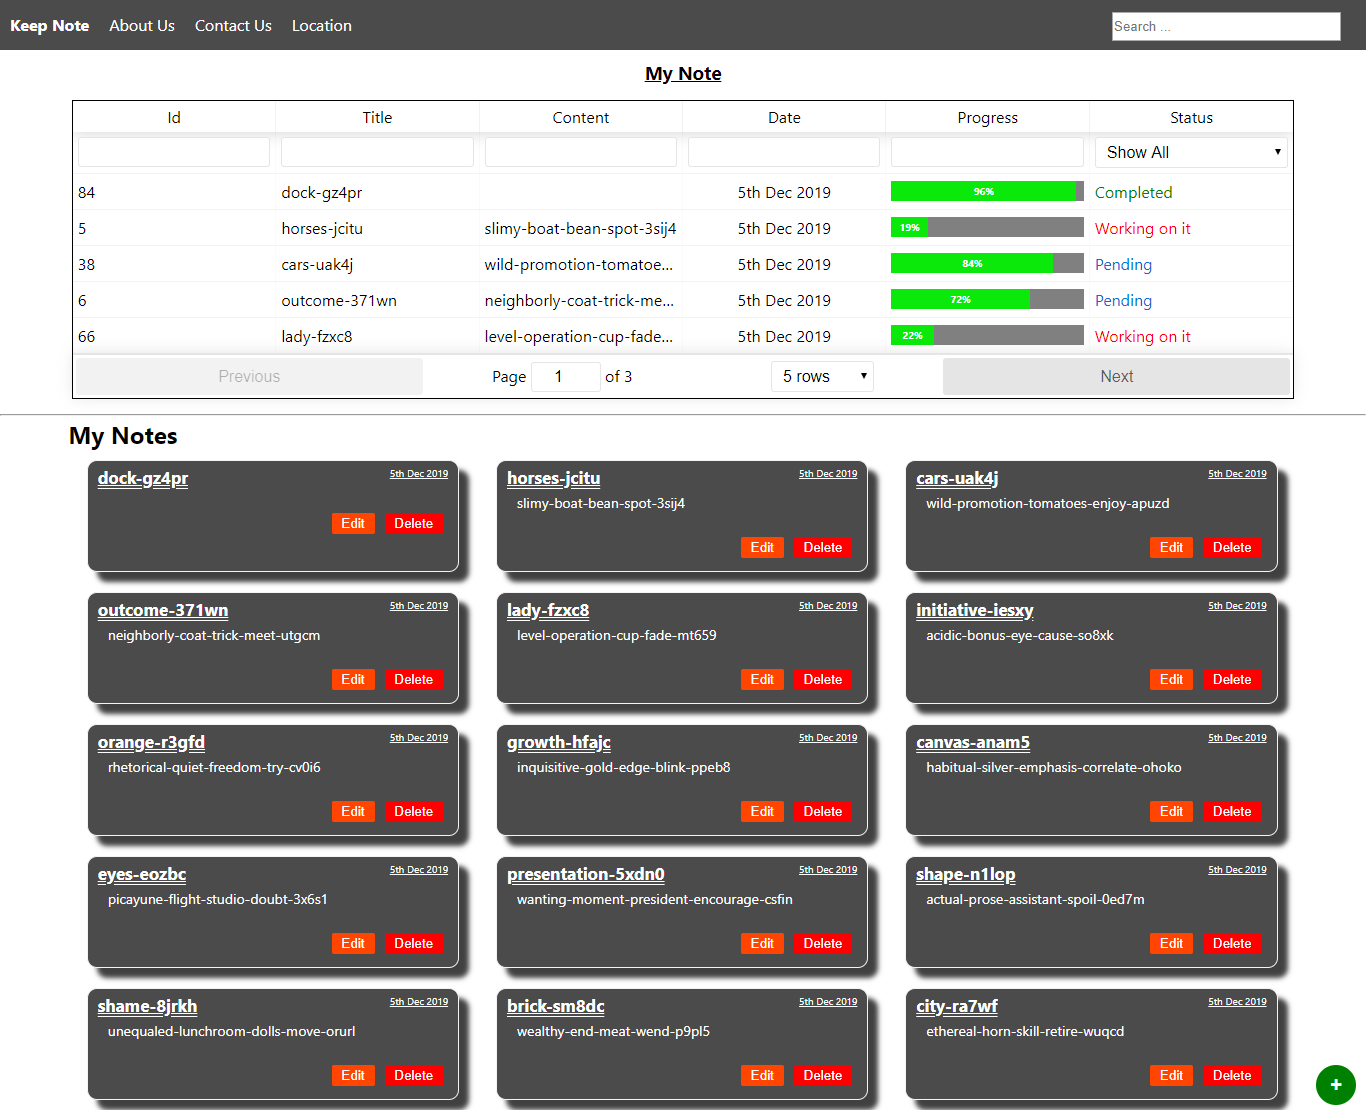
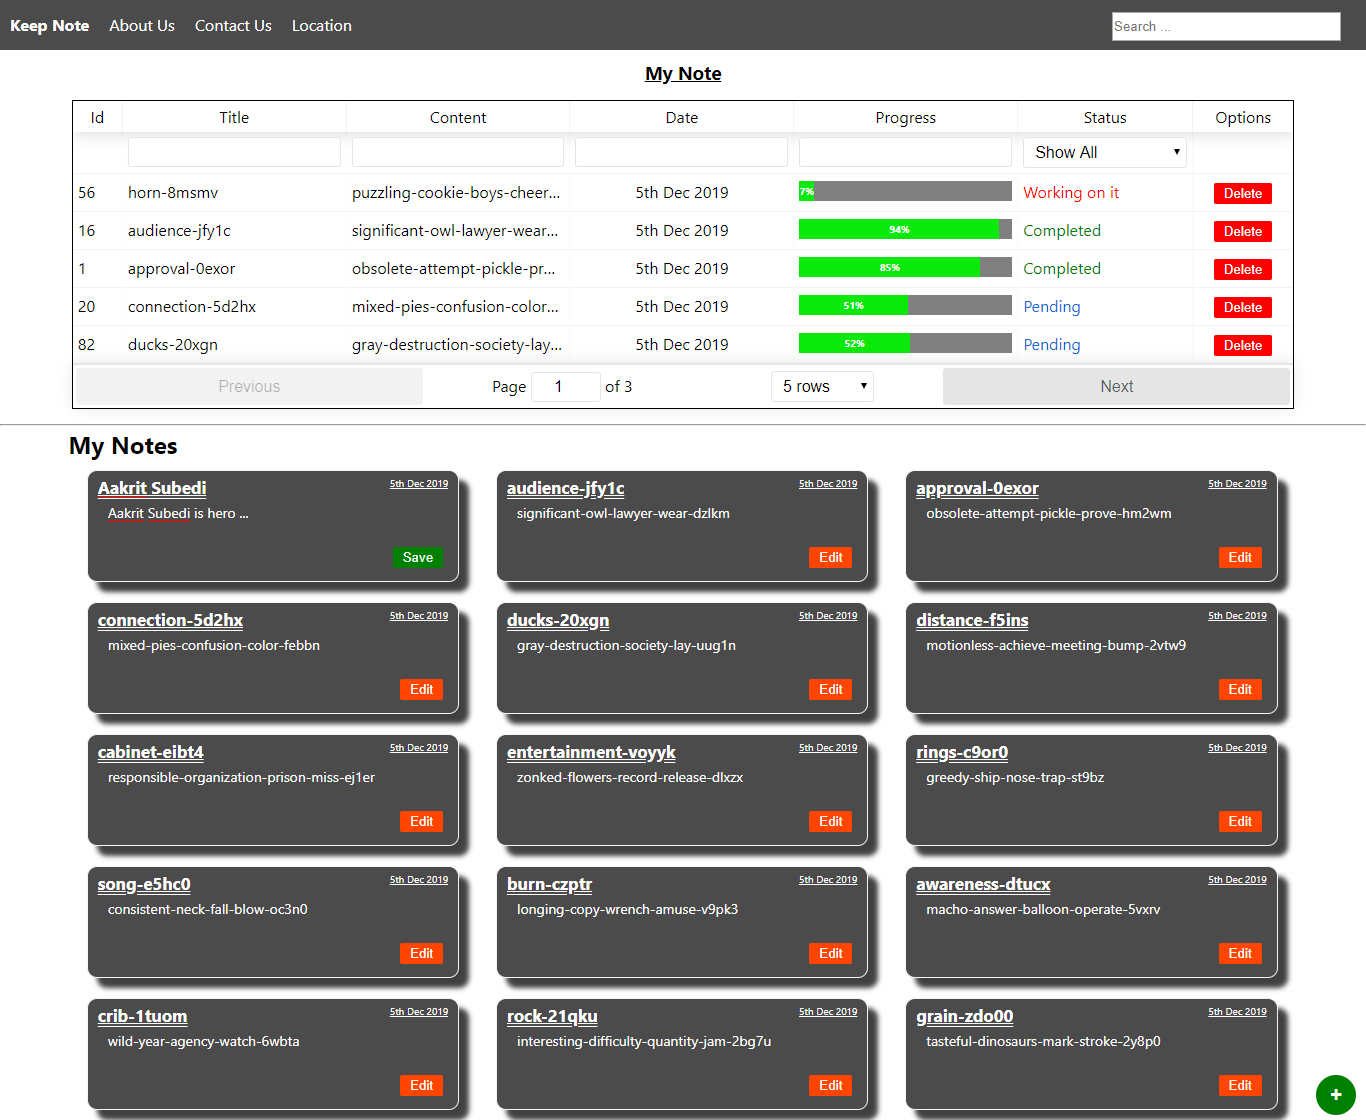
React Table updated

diff --git a/src/container/Note.js b/src/container/Note.js
@@ -1,7 +1,9 @@
 import React, { Component } from 'react';
+
 import Nav from './../components/Nav/Nav';
 import AddNoteForm from './../components/AddNoteForm/AddNoteForm';
 import Table from './../components/Table/Table';
+import Btn from './../components/Btn/Btn';
 import NoteBox from '../components/Note/NoteBox';
 
 import moment from 'moment';
@@ -28,15 +30,21 @@ class Note extends Component {
     this.columns = [
       {
         Header: "Id",
-        accessor: "id"
+        accessor: "id",
+        filterable: false,
+        width:50,
+        maxWidth:75,
+        minWidth:40
       },
       {
         Header: "Title",
         accessor: "title",
+        sortable: false
       },
       {
         Header: "Content",
-        accessor: "content"
+        accessor: "content",
+        sortable: false
       },
       {
         Header: "Date",
@@ -48,11 +56,16 @@ class Note extends Component {
       {
         Header: "Progress",
         accessor: "progress",
+        sortable: false,
         Cell: row => <div className='myProgress' title={row.value + '% Completed'}><div className='myBar' style={{ width: row.value + '%' }}>{row.value + '%'}</div></div>
       },
       {
         Header: "Status",
         accessor: "status",
+        sortable: false,
+        width:175,
+        maxWidth:200,
+        minWidth:150,
         Cell: row => (row.value === 'Pending' ? <span className='pending'>{row.value}</span> : (row.value === 'Working on it') ? <span className='danger'>{row.value}</span> : <span className='success'>{row.value}</span>),
         filterMethod: (filter, row) => {
           if (filter.value === "all") {
@@ -89,6 +102,21 @@ class Note extends Component {
         Header: "Edit",
         accessor: 'edit',
         show: false
+      },{
+        Header: "Options",
+        Cell: row => {
+          return (
+            <Btn title='Delete' onClick={()=>this.deleteNote(row.original)}/>
+          )
+        },
+        sortable:false,
+        filterable:false,
+        width:100,
+        maxWidth:100,
+        minWidth:100,
+        style:{
+          textAlign: 'center'
+        }
       }
     ];
     this.navItems = [
@@ -184,7 +212,6 @@ class Note extends Component {
     })
   }
   render() {
-    console.log("Render");
     let noteBox = this.state.data.map(item => {
       return <NoteBox key={item.id} title={item.title} content={item.content} date={item.date} delete={() => this.deleteNote(item)} edit={() => this.editNote(item)} save={(e) => this.saveEdit(item, e)} editStatus={item.edit} />
     })

diff --git a/src/components/Note/NoteBox.js b/src/components/Note/NoteBox.js
@@ -18,7 +18,7 @@ function NoteBox(props){
                     <Btn title='Save' onClick={props.save}/>
 
                 }
-                <Btn title='Delete' onClick={props.delete}/>
+                {/* <Btn title='Delete' onClick={props.delete}/> */}
             </div>
         </div>
     );
